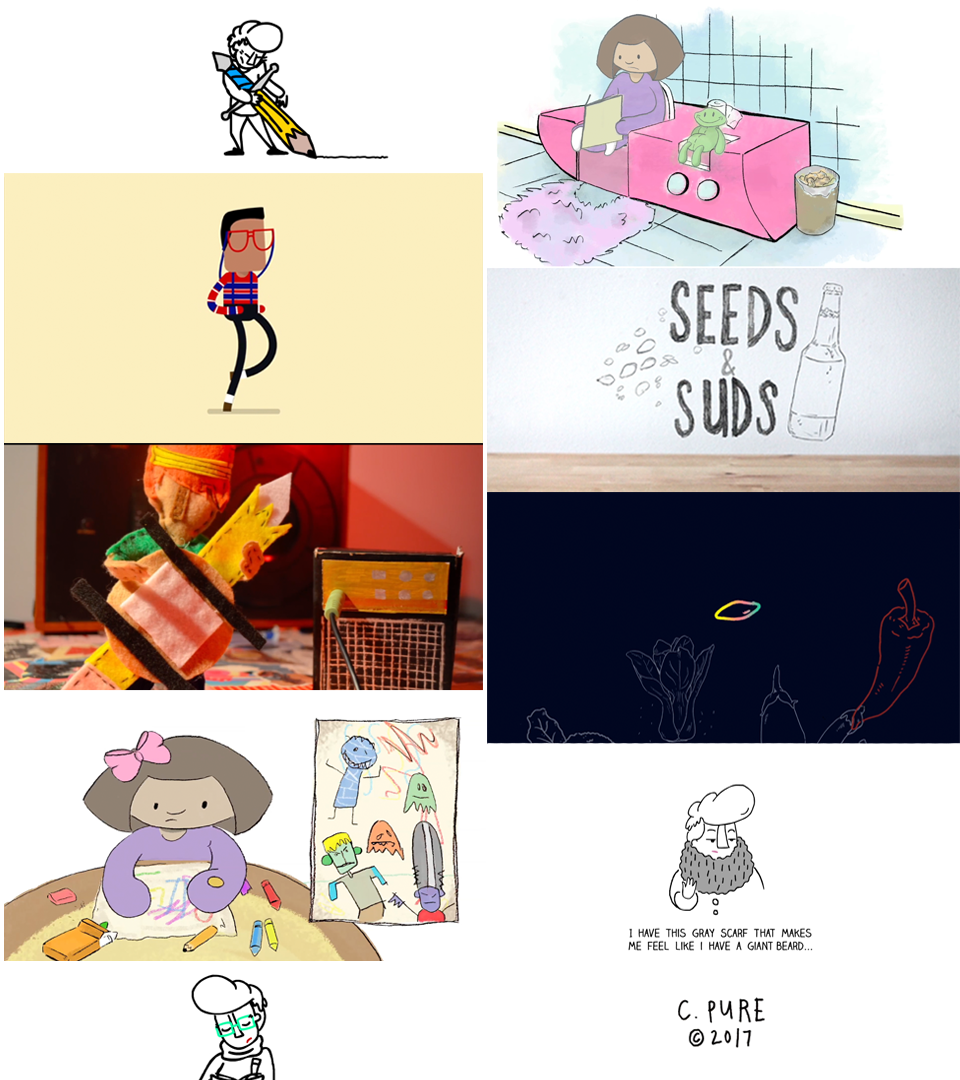
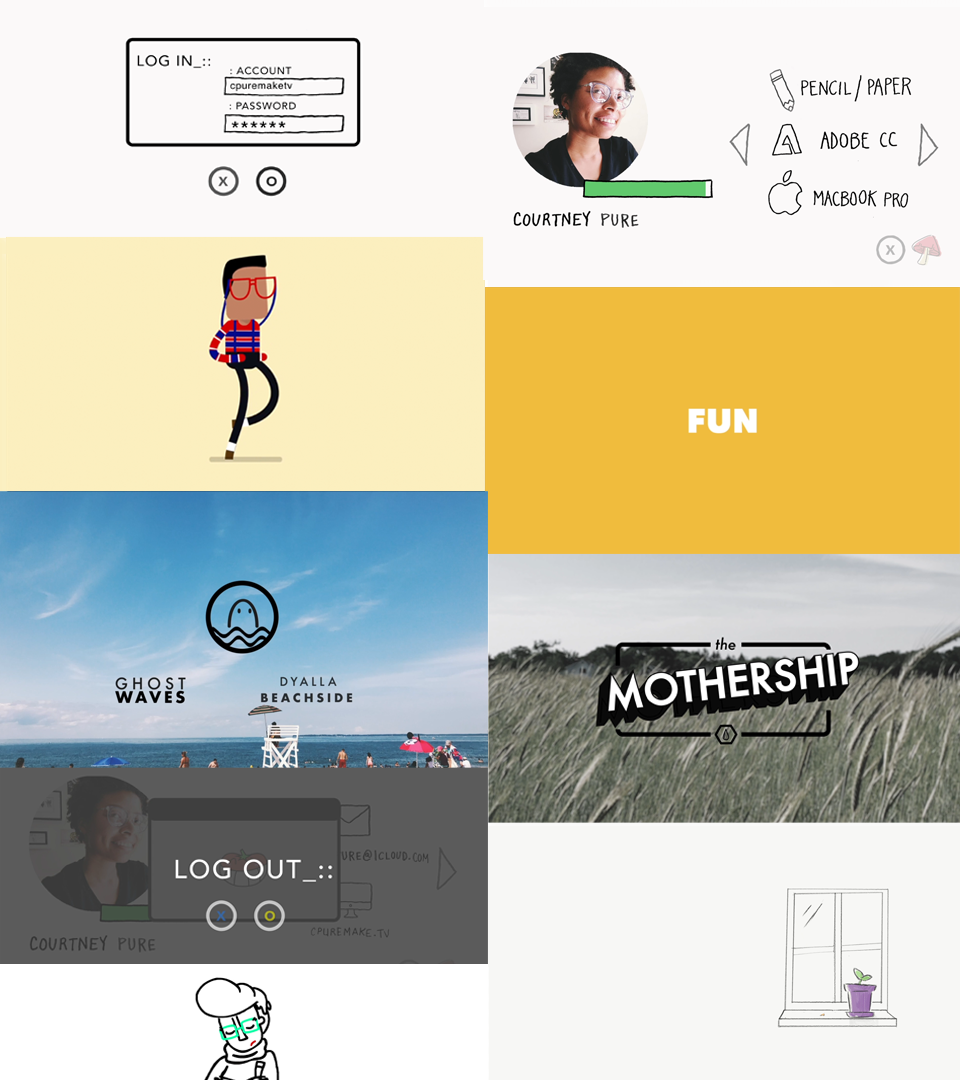
Demo Reel Update
Updated Demo Reel Link and Demo Reel Thumbnail.

diff --git a/index.html b/index.html
@@ -44,7 +44,7 @@
           <p><img class="artwork" src="images/Courtney Pure Animation Lookbook_2.png" alt="Screenshots of Fun Mother Fungi Facts">
               <div class="text">
               <BR>
-              <h2>DEMO REEL <a href="https://vimeo.com/212115499" class="btn" target="_blank">Watch</a></h2>
+              <h2>DEMO REEL <a href="https://vimeo.com/335956166" class="btn" target="_blank">Watch</a></h2>
               <BR>
               <h3>YEAR</h3>
               <p>2017-Present</p>
